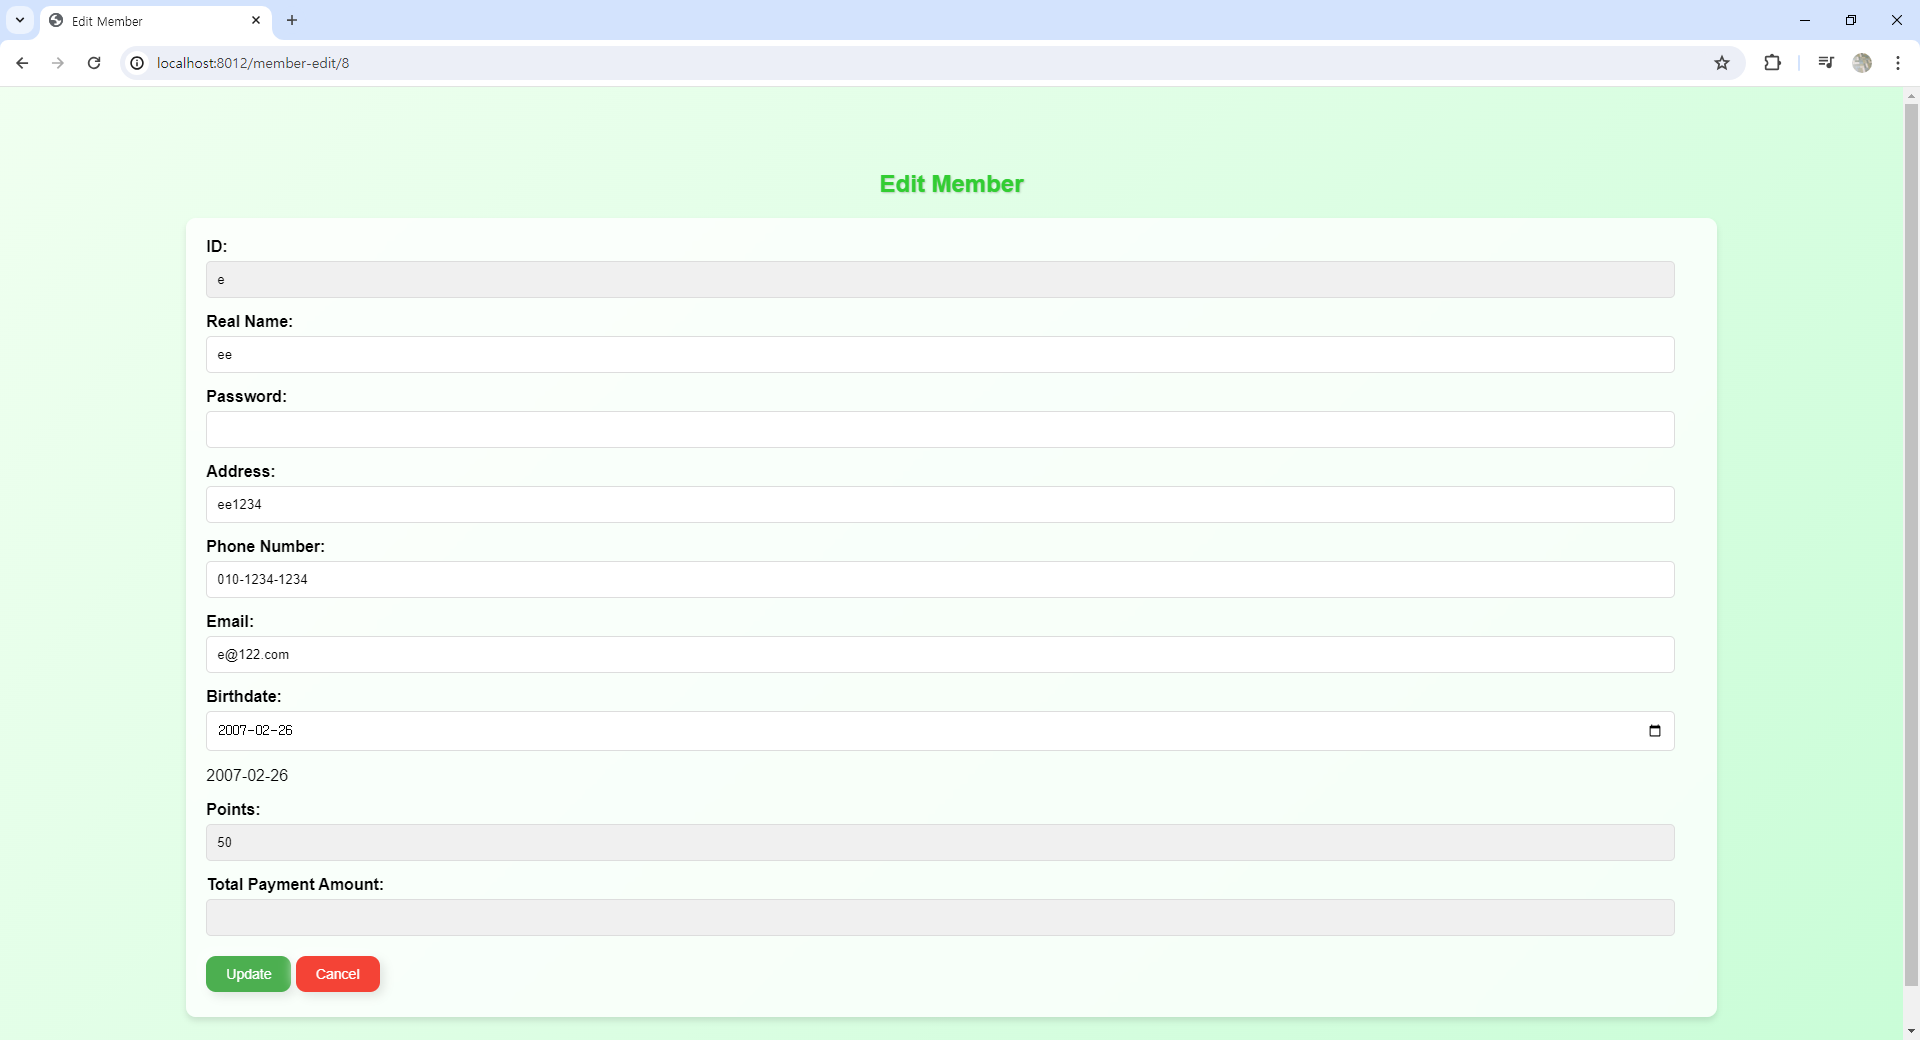
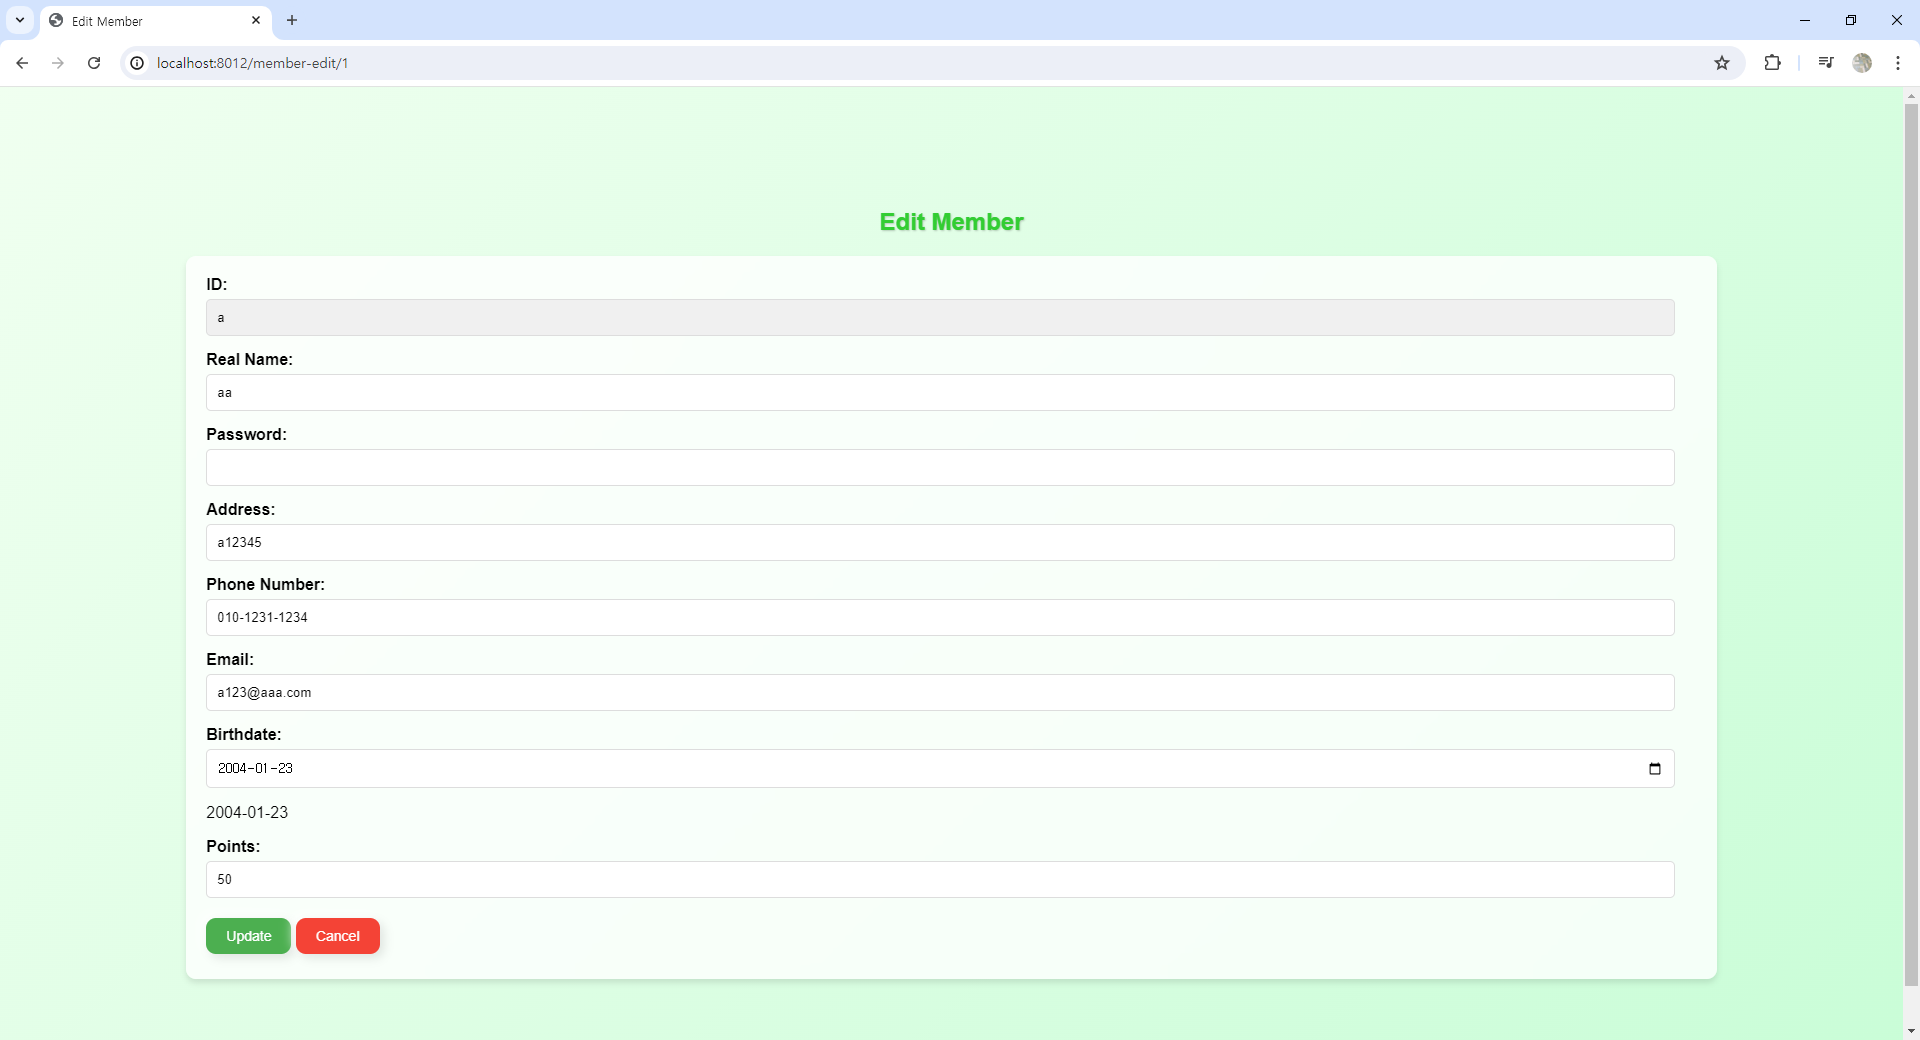
[오자현] 이미지수정, 회원관리수정

Changed region(s): [[0.0938, 0.2769, 0.9062, 0.9846], [0.4375, 0.1538, 0.9062, 0.2462], [0.8438, 0.6769, 0.875, 0.7385]]

diff --git a/Final_Exam/src/main/resources/templates/member-edit.html b/Final_Exam/src/main/resources/templates/member-edit.html
@@ -147,13 +147,6 @@
 					<p th:errors="*{points}">Points Error</p>
 				</div>
 			</div>
-			<div class="form-group">
-				<label for="totalPaymentAmount">Total Payment Amount:</label>
-				<input type="number" step="0.01" id="totalPaymentAmount" th:field="*{totalPaymentAmount}" required />
-				<div th:if="${#fields.hasErrors('totalPaymentAmount')}">
-					<p th:errors="*{totalPaymentAmount}">Total Payment Amount Error</p>
-				</div>
-			</div>
 		</div>
 		<div th:unless="${session.admin}">
 			<div class="form-group">
